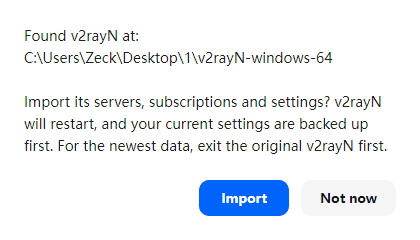
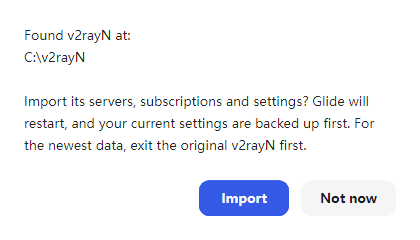
README: separate English and Persian pages with a language switch, fresh screenshots; restore Debug-only package version

diff --git a/README.md b/README.md
@@ -1,20 +1,24 @@
 <div align="center">
 
+**English** · [فارسی](README.fa.md)
+
+<br>
+
 <picture>
   <source media="(prefers-color-scheme: dark)" srcset="docs/brand/glide-logo-dark.png">
-  <img alt="Glide" src="docs/brand/glide-logo-light.png" width="320">
+  <img alt="Glide" src="docs/brand/glide-logo-light.png" width="300">
 </picture>
 
-**A redesigned v2rayN: the client you know, with a clean, modern interface.**
-Same engine (Xray, sing-box, mihomo), same configs and subscriptions, a much nicer app to live with.
+### A calm, modern Windows client for v2rayN
+
+The same engine you already trust (Xray, sing-box and mihomo), with an interface that is easy to read and pleasant to use.
 
 [![Release](https://img.shields.io/github/v/release/BlackkCore/Glide?logo=github&label=Release&color=3157E6)](https://github.com/BlackkCore/Glide/releases/latest)
 [![Downloads](https://img.shields.io/github/downloads/BlackkCore/Glide/total?logo=github&label=Downloads&color=3157E6)](https://github.com/BlackkCore/Glide/releases)
-[![Windows x64](https://img.shields.io/badge/Windows-x64-0078D6?logo=windows)](https://github.com/BlackkCore/Glide/releases/latest)
+[![Windows 10/11 x64](https://img.shields.io/badge/Windows-10%20%7C%2011%20x64-0078D6?logo=windows)](https://github.com/BlackkCore/Glide/releases/latest)
 [![License](https://img.shields.io/badge/License-GPL--3.0-blue)](LICENSE)
-[![GPG Signed](https://img.shields.io/badge/GPG-signed-4B32C3?logo=gnuprivacyguard)](#verify-your-download)
 
-[**Download for Windows**](https://github.com/BlackkCore/Glide/releases/latest) · [Features](#features) · [Getting started](#getting-started) · [فارسی](#فارسی)
+[**⬇ Download for Windows**](https://github.com/BlackkCore/Glide/releases/latest)
 
 <br>
 
@@ -25,81 +29,60 @@ Same engine (Xray, sing-box, mihomo), same configs and subscriptions, a much nic
 
 </div>
 
----
+## Why Glide
 
-## Features
+v2rayN is powerful, but its window shows you everything at once. Glide keeps every feature and reorganizes the screen around what you actually do: pick a server, connect, and see that it's working.
 
-**A first-run screen that helps you start**
-No servers yet? Glide shows how to paste a share link or add a subscription, right where the list will be.
-
-**See how long you have been connected**
-The status pill shows a live session timer while the proxy is on.
-
-**A connection screen you can read at a glance**
-One big power button turns the system proxy on and off. The current server, its protocol and live upload/download speeds sit right underneath.
-
-**A server list that is easy to scan**
-Protocol badges, a clear *Active* tag, and latency shown as a colored dot: green is fast, amber is slow, red is timed out. Filter by subscription with one click.
-
-**Light and dark themes**
-Switch from the sidebar. On Windows 11 the title bar follows the theme too.
-
-**Fits any window size**
-Make the window narrow and the sidebar collapses to icons, so the server list keeps its room.
-
-**Moving over takes one click**
-On first start it finds your existing v2rayN and offers to bring over your servers, subscriptions and settings. Your current settings are backed up first. You can also run it any time from *Settings → Import from original v2rayN*.
-
-**Restart when it matters**
-Settings that need a restart (language, real-time speed and others) now offer a *Restart now* button instead of asking you to do it yourself.
-
-**Made for Persian too**
-Persian dialogs are laid out right-to-left, and the new texts are translated into Persian, Chinese and Russian.
-
-**Updates itself**
-*Help → Check update* downloads new versions of this app from this repository, and Xray, sing-box and mihomo from their own projects.
+- **Connect with one button.** A large power button switches the system proxy. The current server, its protocol, a session timer and a live upload/download chart sit right below it.
+- **Read the server list at a glance.** Country badges, protocol tags, a clear *Active* label and colored latency dots: green is fast, amber is slow, red has timed out.
+- **Light, dark or follow Windows.** Switching themes spreads the new colors out in a circle from the button you clicked.
+- **Persian, done properly.** A complete Persian translation, with the whole window mirrored right-to-left.
+- **Fits any window size.** On narrow windows the sidebar collapses to icons, and tables and settings rearrange themselves instead of cutting text off.
+- **Settings you can find.** Options are grouped into sections and cards, and routing presets have plain names (Whitelist, Blacklist, Global).
+- **Move over in one click.** On first start Glide finds your existing v2rayN and offers to import your servers, subscriptions and settings. It backs up your current settings first.
+- **Feels native on Windows 11.** Rounded windows, a theme-aware title bar, and animations that follow Windows' *Animation effects* setting.
 
 <table>
   <tr>
-    <td><img src="docs/screenshots/menu-dark.png" alt="Sidebar menu in dark mode"></td>
-    <td><img src="docs/screenshots/compact-light.png" alt="Compact layout on a narrow window"></td>
+    <td width="50%"><img src="docs/screenshots/menu-dark.png" alt="Sidebar menu"></td>
+    <td width="50%"><img src="docs/screenshots/compact-light.png" alt="Compact layout on a narrow window"></td>
   </tr>
   <tr>
-    <td align="center">Sidebar menus</td>
-    <td align="center">Compact layout for small windows</td>
+    <td align="center"><sub>Sidebar menus</sub></td>
+    <td align="center"><sub>Compact layout for narrow windows</sub></td>
   </tr>
   <tr>
-    <td><img src="docs/screenshots/settings-light.png" alt="Settings dialog"></td>
-    <td>
-      <img src="docs/screenshots/import-prompt.png" alt="Import from the original v2rayN"><br><br>
-      <img src="docs/screenshots/restart-prompt-fa.png" alt="Restart prompt in Persian">
-    </td>
+    <td width="50%"><img src="docs/screenshots/settings-light.png" alt="Settings"></td>
+    <td width="50%"><img src="docs/screenshots/import-prompt.png" alt="Import from the original v2rayN"></td>
   </tr>
   <tr>
-    <td align="center">Redesigned dialogs</td>
-    <td align="center">One-click import and restart prompts</td>
+    <td align="center"><sub>Settings in sections</sub></td>
+    <td align="center"><sub>One-click import from v2rayN</sub></td>
   </tr>
 </table>
 
----
+## Get started
 
-## Getting started
-
-1. Download **`v2rayN-windows-64-desktop.zip`** from the [latest release](https://github.com/BlackkCore/Glide/releases/latest). It already includes the Xray, sing-box and mihomo cores.
-2. Extract it to a folder you can write to, for example `C:\v2rayN`. Avoid `Program Files`.
-3. If you use the original v2rayN, exit it first (right-click its tray icon → Exit).
-4. Run **`v2rayN.exe`**. If it finds your old v2rayN it offers to import everything. Otherwise add servers from the *Configuration* menu: paste a share link, scan a QR code or add a subscription.
+1. Download **`v2rayN-windows-64-desktop.zip`** from the [latest release](https://github.com/BlackkCore/Glide/releases/latest). The Xray, sing-box and mihomo cores are included.
+2. Extract it to a folder you can write to, for example `C:\Glide`. Avoid `Program Files`.
+3. If the original v2rayN is running, exit it first (right-click its tray icon → *Exit*).
+4. Run **`v2rayN.exe`**. Accept the import offer, or add servers from the *Configuration* menu: paste a share link, scan a QR code, or add a subscription.
 
 **Requirements:** Windows 10 or 11, 64-bit.
 
 > [!TIP]
-> Both apps can stay installed side by side, but don't run them at the same time. They use the same local port and would fight over the Windows proxy setting.
+> Glide and the original v2rayN can stay installed side by side, but don't run both at once. They use the same local port and would fight over the Windows proxy setting.
 
----
+## Updating
+
+- **Glide:** *Help → Check update*, or download the new zip and extract it over the old folder. Your servers live in `guiConfigs` and are kept.
+- **Cores and rule files:** also from *Check update*.
+
+Glide follows [2dust/v2rayN](https://github.com/2dust/v2rayN): new upstream versions are merged in and released here with the redesign on top.
 
 ## Verify your download
 
-Every release file comes with a `.sig` signature made with this key:
+Every release file has a `.sig` signature made with this key:
 
 ```text
 D62D C3BC D066 5F52 5BB6  7206 E862 9FD9 AF46 1E53
@@ -112,17 +95,6 @@ gpg --verify v2rayN-windows-64-desktop.zip.sig v2rayN-windows-64-desktop.zip
 
 `v2rayN-public-key.asc` is attached to every release. The output should say *Good signature from "BlackkCore Releases"*.
 
----
-
-## Updating
-
-- **The app:** *Help → Check update*, or download the new zip from Releases and extract it over the old folder (your `guiConfigs` folder with your servers stays).
-- **Cores and rule files:** also from *Check update*.
-
-This project follows [2dust/v2rayN](https://github.com/2dust/v2rayN). New upstream versions are merged in and released here with the redesign on top.
-
----
-
 ## Build from source
 
 ```bash
@@ -131,46 +103,13 @@ cd Glide/v2rayN/v2rayN.Desktop
 dotnet publish -c Release -r win-x64 --self-contained true -o ../../out
 ```
 
-Needs the [.NET 10 SDK](https://dotnet.microsoft.com/download). Copy a `bin` folder with the cores next to `v2rayN.exe`, or let *Check update* download them.
-
----
+You need the [.NET 10 SDK](https://dotnet.microsoft.com/download). Put a `bin` folder with the cores next to `v2rayN.exe`, or let *Check update* download them.
 
 ## Credits and license
 
-- Built on [v2rayN](https://github.com/2dust/v2rayN) by [2dust](https://github.com/2dust) and its contributors. All the networking work is theirs; this fork changes the desktop interface.
+- Built on [v2rayN](https://github.com/2dust/v2rayN) by [2dust](https://github.com/2dust) and contributors. The networking is all theirs; Glide changes the desktop interface.
 - Cores: [Xray](https://github.com/XTLS/Xray-core), [sing-box](https://github.com/SagerNet/sing-box), [mihomo](https://github.com/MetaCubeX/mihomo).
-- UI: [Avalonia](https://avaloniaui.net/) with [Semi.Avalonia](https://github.com/irihitech/Semi.Avalonia). Font: [Manrope](https://github.com/sharanda/manrope), under the [SIL Open Font License](v2rayN/v2rayN.Desktop/Assets/Fonts/OFL.txt).
-- Licensed under [GPL-3.0](LICENSE), like the original.
+- Interface: [Avalonia](https://avaloniaui.net/) with [Semi.Avalonia](https://github.com/irihitech/Semi.Avalonia). Fonts: [Manrope](https://github.com/sharanda/manrope), [Vazirmatn](https://github.com/rastikerdar/vazirmatn) and [JetBrains Mono](https://github.com/JetBrains/JetBrainsMono), under the [SIL Open Font License](v2rayN/v2rayN.Desktop/Assets/Fonts/OFL.txt).
+- Licensed under [GPL-3.0](LICENSE), like v2rayN.
 
-Found a bug or have an idea? [Open an issue](https://github.com/BlackkCore/Glide/issues).
-
----
-
-<div dir="rtl">
-
-## فارسی
-
-**Glide** همان v2rayN است با ظاهری تازه، تمیز و مدرن. هستهها (Xray، sing-box و mihomo)، کانفیگها و اشتراکها همان قبلیها هستند؛ فقط کار با برنامه بسیار راحتتر شده است.
-
-### امکانات
-
-- **صفحهٔ اتصال ساده:** یک دکمهٔ بزرگ برای روشن و خاموش کردن پروکسی سیستم، به همراه نام سرور و سرعت لحظهای آپلود و دانلود.
-- **لیست سرور خوانا:** نوع پروتکل، برچسب سرور فعال و نمایش تأخیر با رنگ (سبز: سریع، نارنجی: کند، قرمز: قطع).
-- **تم روشن و تیره:** از نوار کناری عوض میشود و در ویندوز ۱۱ نوار عنوان هم همرنگ میشود.
-- **انتقال با یک کلیک:** در اولین اجرا، v2rayN قبلی شما را پیدا میکند و سرورها، اشتراکها و تنظیمات را منتقل میکند (قبل از آن از تنظیمات فعلی نسخهٔ پشتیبان گرفته میشود).
-- **دکمهٔ «راهاندازی مجدد»:** برای تنظیماتی که به ریاستارت نیاز دارند.
-- **پشتیبانی بهتر از فارسی:** پیامها راستبهچپ نمایش داده میشوند.
-- **بهروزرسانی خودکار:** از منوی راهنما ← بررسی بهروزرسانی.
-
-### شروع کار
-
-۱. فایل **`v2rayN-windows-64-desktop.zip`** را از [آخرین نسخه](https://github.com/BlackkCore/Glide/releases/latest) دانلود کنید (هستهها داخل آن هستند).<br>
-۲. آن را در پوشهای مثل `C:\v2rayN` از حالت فشرده خارج کنید.<br>
-۳. اگر v2rayN اصلی باز است، اول آن را ببندید (راستکلیک روی آیکون کنار ساعت ← خروج).<br>
-۴. فایل **`v2rayN.exe`** را اجرا کنید و پیشنهاد انتقال تنظیمات را بپذیرید.
-
-نیازمندی: ویندوز ۱۰ یا ۱۱، نسخهٔ ۶۴ بیتی.
-
-این پروژه بر پایهٔ [v2rayN](https://github.com/2dust/v2rayN) ساختهٔ [2dust](https://github.com/2dust) است و مانند نسخهٔ اصلی تحت مجوز GPL-3.0 منتشر میشود.
-
-</div>
+Found a bug or have an idea? [Open an issue](https://github.com/BlackkCore/Glide/issues/new/choose).

diff --git a/README.fa.md b/README.fa.md
@@ -1,0 +1,135 @@
+<div align="center">
+
+[English](README.md) · **فارسی**
+
+<br>
+
+<picture>
+  <source media="(prefers-color-scheme: dark)" srcset="docs/brand/glide-logo-dark.png">
+  <img alt="Glide" src="docs/brand/glide-logo-light.png" width="300">
+</picture>
+
+<div dir="rtl">
+
+### کلاینت ویندوزی آرام و مدرن برای v2rayN
+
+همان هستههایی که به آنها اعتماد دارید (Xray، sing-box و mihomo)، با ظاهری خوانا و کاربردی.
+
+</div>
+
+[![Release](https://img.shields.io/github/v/release/BlackkCore/Glide?logo=github&label=Release&color=3157E6)](https://github.com/BlackkCore/Glide/releases/latest)
+[![Downloads](https://img.shields.io/github/downloads/BlackkCore/Glide/total?logo=github&label=Downloads&color=3157E6)](https://github.com/BlackkCore/Glide/releases)
+[![Windows 10/11 x64](https://img.shields.io/badge/Windows-10%20%7C%2011%20x64-0078D6?logo=windows)](https://github.com/BlackkCore/Glide/releases/latest)
+[![License](https://img.shields.io/badge/License-GPL--3.0-blue)](LICENSE)
+
+[**⬇ دانلود برای ویندوز**](https://github.com/BlackkCore/Glide/releases/latest)
+
+<br>
+
+<picture>
+  <source media="(prefers-color-scheme: dark)" srcset="docs/screenshots/main-dark.png">
+  <img alt="پنجرهٔ اصلی Glide" src="docs/screenshots/main-light.png" width="900">
+</picture>
+
+</div>
+
+<div dir="rtl">
+
+## چرا Glide؟
+
+v2rayN برنامهٔ قدرتمندی است، اما همهچیز را یکجا جلوی چشم میگذارد. Glide همهٔ امکانات را نگه میدارد و صفحه را حول کاری که واقعاً انجام میدهید میچیند: انتخاب سرور، اتصال و دیدن اینکه کار میکند.
+
+- **اتصال با یک دکمه:** یک دکمهٔ بزرگ پروکسی سیستم را روشن و خاموش میکند. نام سرور، نوع پروتکل، زمان اتصال و نمودار زندهٔ سرعت آپلود و دانلود درست زیر آن است.
+- **لیست سرورِ خوانا:** پرچم کشور، نوع پروتکل، برچسب «فعال» و نمایش تأخیر با رنگ: سبز یعنی سریع، نارنجی یعنی کند و قرمز یعنی قطع.
+- **تم روشن، تیره یا هماهنگ با ویندوز:** با عوض کردن تم، رنگهای جدید به شکل دایره از همان دکمهای که زدید پخش میشوند.
+- **فارسیِ کامل:** همهٔ متنها ترجمه شدهاند و کل پنجره راستبهچپ چیده میشود.
+- **مناسب هر اندازهٔ پنجره:** در پنجرههای باریک نوار کناری فقط آیکون نشان میدهد و جدولها و تنظیمات خودشان را مرتب میکنند تا متنی بریده نشود.
+- **تنظیمات مرتب:** گزینهها در بخشها و کارتهای جدا دستهبندی شدهاند و نام قوانین مسیریابی ساده است (Whitelist، Blacklist، Global).
+- **انتقال با یک کلیک:** در اولین اجرا، Glide نسخهٔ v2rayN قبلی شما را پیدا میکند و پیشنهاد میدهد سرورها، اشتراکها و تنظیمات را منتقل کند؛ قبل از آن از تنظیمات فعلی نسخهٔ پشتیبان میگیرد.
+- **هماهنگ با ویندوز ۱۱:** پنجرههای گرد، نوار عنوان همرنگ با تم و انیمیشنهایی که از تنظیم «جلوههای انیمیشن» ویندوز پیروی میکنند.
+
+</div>
+
+<table>
+  <tr>
+    <td width="50%"><img src="docs/screenshots/menu-dark.png" alt="منوی کناری"></td>
+    <td width="50%"><img src="docs/screenshots/compact-light.png" alt="حالت فشرده در پنجرهٔ باریک"></td>
+  </tr>
+  <tr>
+    <td align="center"><sub>منوهای کناری</sub></td>
+    <td align="center"><sub>حالت فشرده برای پنجرههای باریک</sub></td>
+  </tr>
+  <tr>
+    <td width="50%"><img src="docs/screenshots/settings-light.png" alt="تنظیمات"></td>
+    <td width="50%"><img src="docs/screenshots/import-prompt.png" alt="انتقال از v2rayN اصلی"></td>
+  </tr>
+  <tr>
+    <td align="center"><sub>تنظیمات دستهبندیشده</sub></td>
+    <td align="center"><sub>انتقال از v2rayN با یک کلیک</sub></td>
+  </tr>
+</table>
+
+<div dir="rtl">
+
+## شروع کار
+
+۱. فایل **`v2rayN-windows-64-desktop.zip`** را از [آخرین نسخه](https://github.com/BlackkCore/Glide/releases/latest) دانلود کنید. هستههای Xray، sing-box و mihomo داخل آن هستند.<br>
+۲. آن را در پوشهای که اجازهٔ نوشتن دارد، مثلاً `C:\Glide`، از حالت فشرده خارج کنید. از پوشهٔ `Program Files` استفاده نکنید.<br>
+۳. اگر v2rayN اصلی باز است، اول آن را ببندید (راستکلیک روی آیکون کنار ساعت ← *خروج*).<br>
+۴. فایل **`v2rayN.exe`** را اجرا کنید. پیشنهاد انتقال را بپذیرید، یا از منوی *سرورها* سرور اضافه کنید: لینک اشتراکگذاری را وارد کنید، کد QR اسکن کنید یا اشتراک اضافه کنید.
+
+**نیازمندی:** ویندوز ۱۰ یا ۱۱، نسخهٔ ۶۴ بیتی.
+
+> [!TIP]
+> میتوانید Glide و v2rayN اصلی را کنار هم نگه دارید، اما هر دو را همزمان اجرا نکنید؛ هر دو از یک پورت محلی استفاده میکنند و بر سر تنظیم پروکسی ویندوز با هم تداخل پیدا میکنند.
+
+## بهروزرسانی
+
+- **خود Glide:** از منوی *کمک ← بررسی بهروزرسانی*، یا فایل zip جدید را دانلود و روی پوشهٔ قبلی استخراج کنید. سرورهای شما در پوشهٔ `guiConfigs` هستند و حفظ میشوند.
+- **هستهها و فایلهای قوانین:** آنها هم از *بررسی بهروزرسانی*.
+
+Glide همراه با [2dust/v2rayN](https://github.com/2dust/v2rayN) پیش میرود: نسخههای جدید آن ادغام میشوند و با همین ظاهر جدید اینجا منتشر میشوند.
+
+## بررسی اصالت فایل دانلودی
+
+هر فایل در صفحهٔ انتشار یک امضای `.sig` دارد که با این کلید ساخته شده است:
+
+</div>
+
+```text
+D62D C3BC D066 5F52 5BB6  7206 E862 9FD9 AF46 1E53
+```
+
+```bash
+gpg --import v2rayN-public-key.asc
+gpg --verify v2rayN-windows-64-desktop.zip.sig v2rayN-windows-64-desktop.zip
+```
+
+<div dir="rtl">
+
+فایل `v2rayN-public-key.asc` به هر انتشار پیوست شده است. خروجی باید بگوید *Good signature from "BlackkCore Releases"*.
+
+## ساخت از سورس
+
+</div>
+
+```bash
+git clone --recursive https://github.com/BlackkCore/Glide.git
+cd Glide/v2rayN/v2rayN.Desktop
+dotnet publish -c Release -r win-x64 --self-contained true -o ../../out
+```
+
+<div dir="rtl">
+
+به [.NET 10 SDK](https://dotnet.microsoft.com/download) نیاز دارید. یک پوشهٔ `bin` با هستهها کنار `v2rayN.exe` بگذارید، یا بگذارید *بررسی بهروزرسانی* آنها را دانلود کند.
+
+## سپاس و مجوز
+
+- ساختهشده بر پایهٔ [v2rayN](https://github.com/2dust/v2rayN) از [2dust](https://github.com/2dust) و همکارانش. همهٔ بخش شبکه کار آنهاست؛ Glide فقط رابط کاربری دسکتاپ را تغییر میدهد.
+- هستهها: [Xray](https://github.com/XTLS/Xray-core)، [sing-box](https://github.com/SagerNet/sing-box)، [mihomo](https://github.com/MetaCubeX/mihomo).
+- رابط کاربری: [Avalonia](https://avaloniaui.net/) با [Semi.Avalonia](https://github.com/irihitech/Semi.Avalonia). فونتها: [Manrope](https://github.com/sharanda/manrope)، [وزیرمتن](https://github.com/rastikerdar/vazirmatn) و [JetBrains Mono](https://github.com/JetBrains/JetBrainsMono)، تحت [مجوز SIL Open Font](v2rayN/v2rayN.Desktop/Assets/Fonts/OFL.txt).
+- منتشرشده تحت مجوز [GPL-3.0](LICENSE)، مانند v2rayN.
+
+مشکلی پیدا کردید یا پیشنهادی دارید؟ [یک Issue باز کنید](https://github.com/BlackkCore/Glide/issues/new/choose).
+
+</div>
